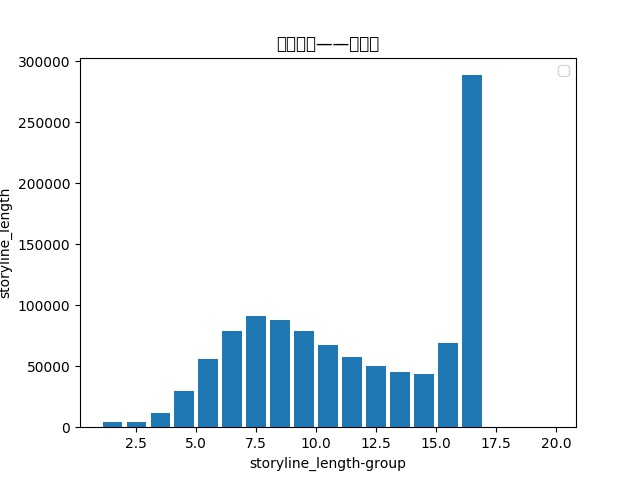
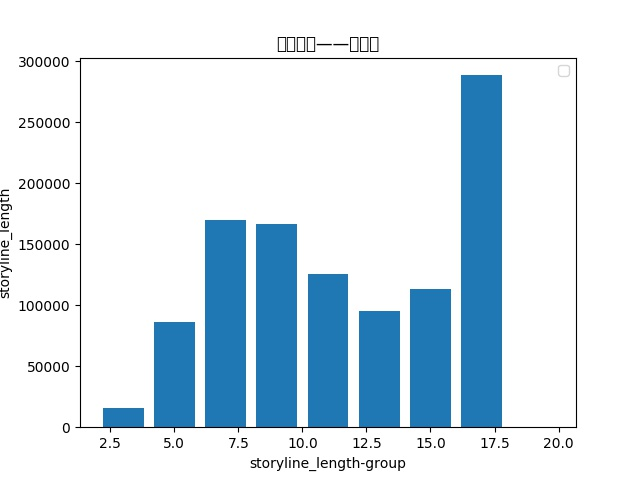
修改分组

Changed region(s): [[0.1562, 0.4375, 0.7188, 0.9375], [0.75, 0.1562, 0.8125, 0.9375], [0.8438, 0.9062, 0.9062, 0.9375]]

diff --git a/data_preprocess/print.py b/data_preprocess/print.py
@@ -34,7 +34,7 @@ def handle_print(origin_file,imgsave_path):
             storyline = row[4].split(' ')
             storyline_length.append(len(storyline))
 
-    group = [1,2,3,4,5,6,7,8,9,10,11,12,13,14,15,16,17,18,19,20]
+    group = [2,4,6,8,10,12,14,16,18,20]
     
     plt.hist(storyline_length, group, histtype='bar', rwidth=0.8)
     plt.legend()
